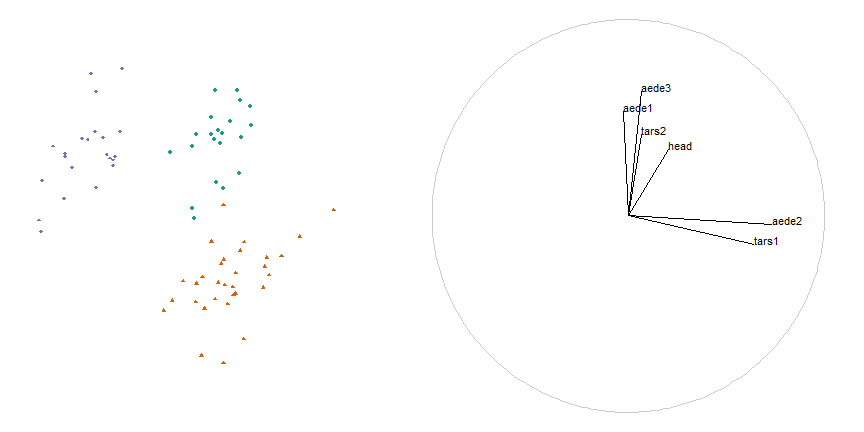
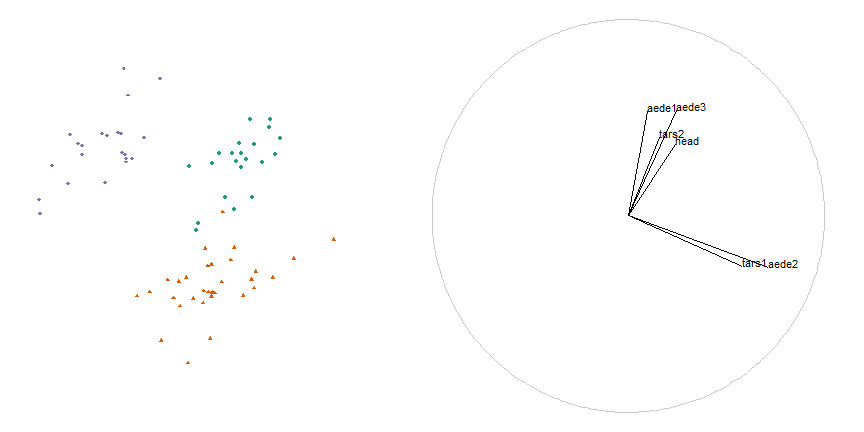
edits/spacing

diff --git a/slides_ns.html b/slides_ns.html
@@ -135,33 +135,33 @@ With the improved quality, increasing audience, and reduced cost of modern VR it
 &lt;tbody&gt;
   &lt;tr&gt;
    &lt;td style="text-align:left;"&gt; tars1 &lt;/td&gt;
-   &lt;td style="text-align:right;"&gt; 0.6409 &lt;/td&gt;
-   &lt;td style="text-align:right;"&gt; -0.1448 &lt;/td&gt;
+   &lt;td style="text-align:right;"&gt; 0.5806 &lt;/td&gt;
+   &lt;td style="text-align:right;"&gt; -0.2581 &lt;/td&gt;
   &lt;/tr&gt;
   &lt;tr&gt;
    &lt;td style="text-align:left;"&gt; tars2 &lt;/td&gt;
-   &lt;td style="text-align:right;"&gt; 0.0657 &lt;/td&gt;
-   &lt;td style="text-align:right;"&gt; 0.4153 &lt;/td&gt;
+   &lt;td style="text-align:right;"&gt; 0.1591 &lt;/td&gt;
+   &lt;td style="text-align:right;"&gt; 0.4002 &lt;/td&gt;
   &lt;/tr&gt;
   &lt;tr&gt;
    &lt;td style="text-align:left;"&gt; head &lt;/td&gt;
-   &lt;td style="text-align:right;"&gt; 0.2033 &lt;/td&gt;
-   &lt;td style="text-align:right;"&gt; 0.3394 &lt;/td&gt;
+   &lt;td style="text-align:right;"&gt; 0.2376 &lt;/td&gt;
+   &lt;td style="text-align:right;"&gt; 0.3656 &lt;/td&gt;
   &lt;/tr&gt;
   &lt;tr&gt;
    &lt;td style="text-align:left;"&gt; aede1 &lt;/td&gt;
-   &lt;td style="text-align:right;"&gt; -0.0255 &lt;/td&gt;
-   &lt;td style="text-align:right;"&gt; 0.5332 &lt;/td&gt;
+   &lt;td style="text-align:right;"&gt; 0.0992 &lt;/td&gt;
+   &lt;td style="text-align:right;"&gt; 0.5339 &lt;/td&gt;
   &lt;/tr&gt;
   &lt;tr&gt;
    &lt;td style="text-align:left;"&gt; aede2 &lt;/td&gt;
-   &lt;td style="text-align:right;"&gt; 0.7340 &lt;/td&gt;
-   &lt;td style="text-align:right;"&gt; -0.0424 &lt;/td&gt;
+   &lt;td style="text-align:right;"&gt; 0.7143 &lt;/td&gt;
+   &lt;td style="text-align:right;"&gt; -0.2603 &lt;/td&gt;
   &lt;/tr&gt;
   &lt;tr&gt;
    &lt;td style="text-align:left;"&gt; aede3 &lt;/td&gt;
-   &lt;td style="text-align:right;"&gt; 0.0649 &lt;/td&gt;
-   &lt;td style="text-align:right;"&gt; 0.6366 &lt;/td&gt;
+   &lt;td style="text-align:right;"&gt; 0.2472 &lt;/td&gt;
+   &lt;td style="text-align:right;"&gt; 0.5355 &lt;/td&gt;
   &lt;/tr&gt;
 &lt;/tbody&gt;
 &lt;/table&gt;
@@ -238,8 +238,8 @@ Conclusion, PC6 is important in explaining the structure features in the data:
 *Future performance comparison measured across contemporary benchmark datasets*
 
 - Principal Component Analysis (PCA) 
-    - The static linear transformation that produces linear combinations of the variables in descending order of variation explained
-- Multi-Dimensional Scaling
+    - Linear transformation that produces linear combinations of the variables in descending order of variation explained
+- Multi-Dimensional Scaling (MDS)
     - Non-leaner dimension reduction that compares the pairwise distance between observations
 - T-distributed Stochastic Neighbor Embedding (tSNE)
     - Static non-linear transformation preserves local proximity and reduces relative entropy
@@ -247,19 +247,18 @@ Conclusion, PC6 is important in explaining the structure features in the data:
     - Dynamic linear projections controlling the contribution of a selected variable
 
 Measures: variation, variable transparency, clustering, structure
-Design space: data sets, techniques, and measures of comparison
 
+Design space: data sets, techniques, and measures of comparison
 
 ---
 
 # RO 3) How do we extend UCS to 3D?
 
-
 *future algorithm design*
 
 Extend UCS algorithm to 3D projections and integrate with Immersive Analytics Tool Kit, `IATK`, *Cordeil 2019* for common user interface across display devices
 
--Develop for 3D scatterplots and then extended to multi-dimensional function surfaces.
+-Develop for 3D scatterplots and then extended to multi-dimensional function surfaces
 
 .pull-left[
 &lt;img src="./images/f_mt.gif" width="70%" height="70%" style="display: block; margin: auto;" /&gt;
@@ -279,8 +278,8 @@ Extend UCS algorithm to 3D projections and integrate with Immersive Analytics To
 
 .pull-left[
 - Visual variant of statistical p-test
-- pick the real data against data generated from the null hypothesis
-- quantitative comparison across display type
+- Pick the real data against data generated from the null hypothesis
+- Quantitative comparison across display type
 &lt;img src="./images/hofmann12fig.PNG" width="80%" height="80%" style="display: block; margin: auto;" /&gt;
 ]
 
